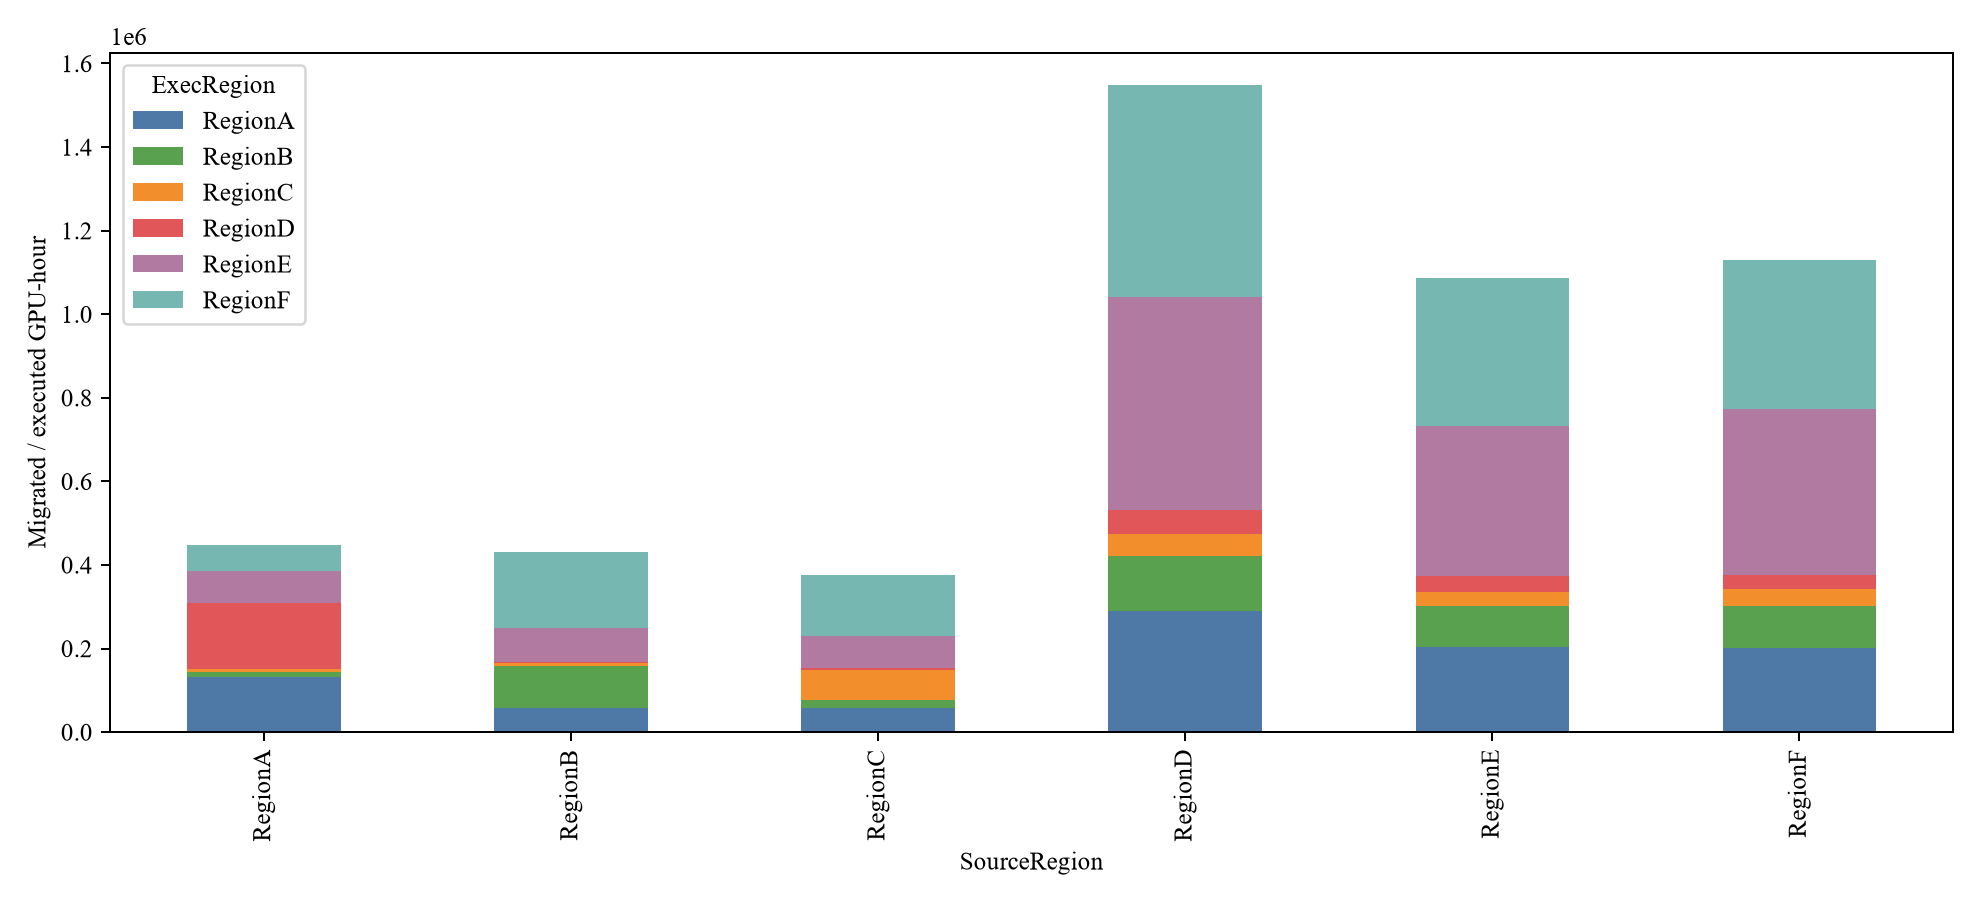
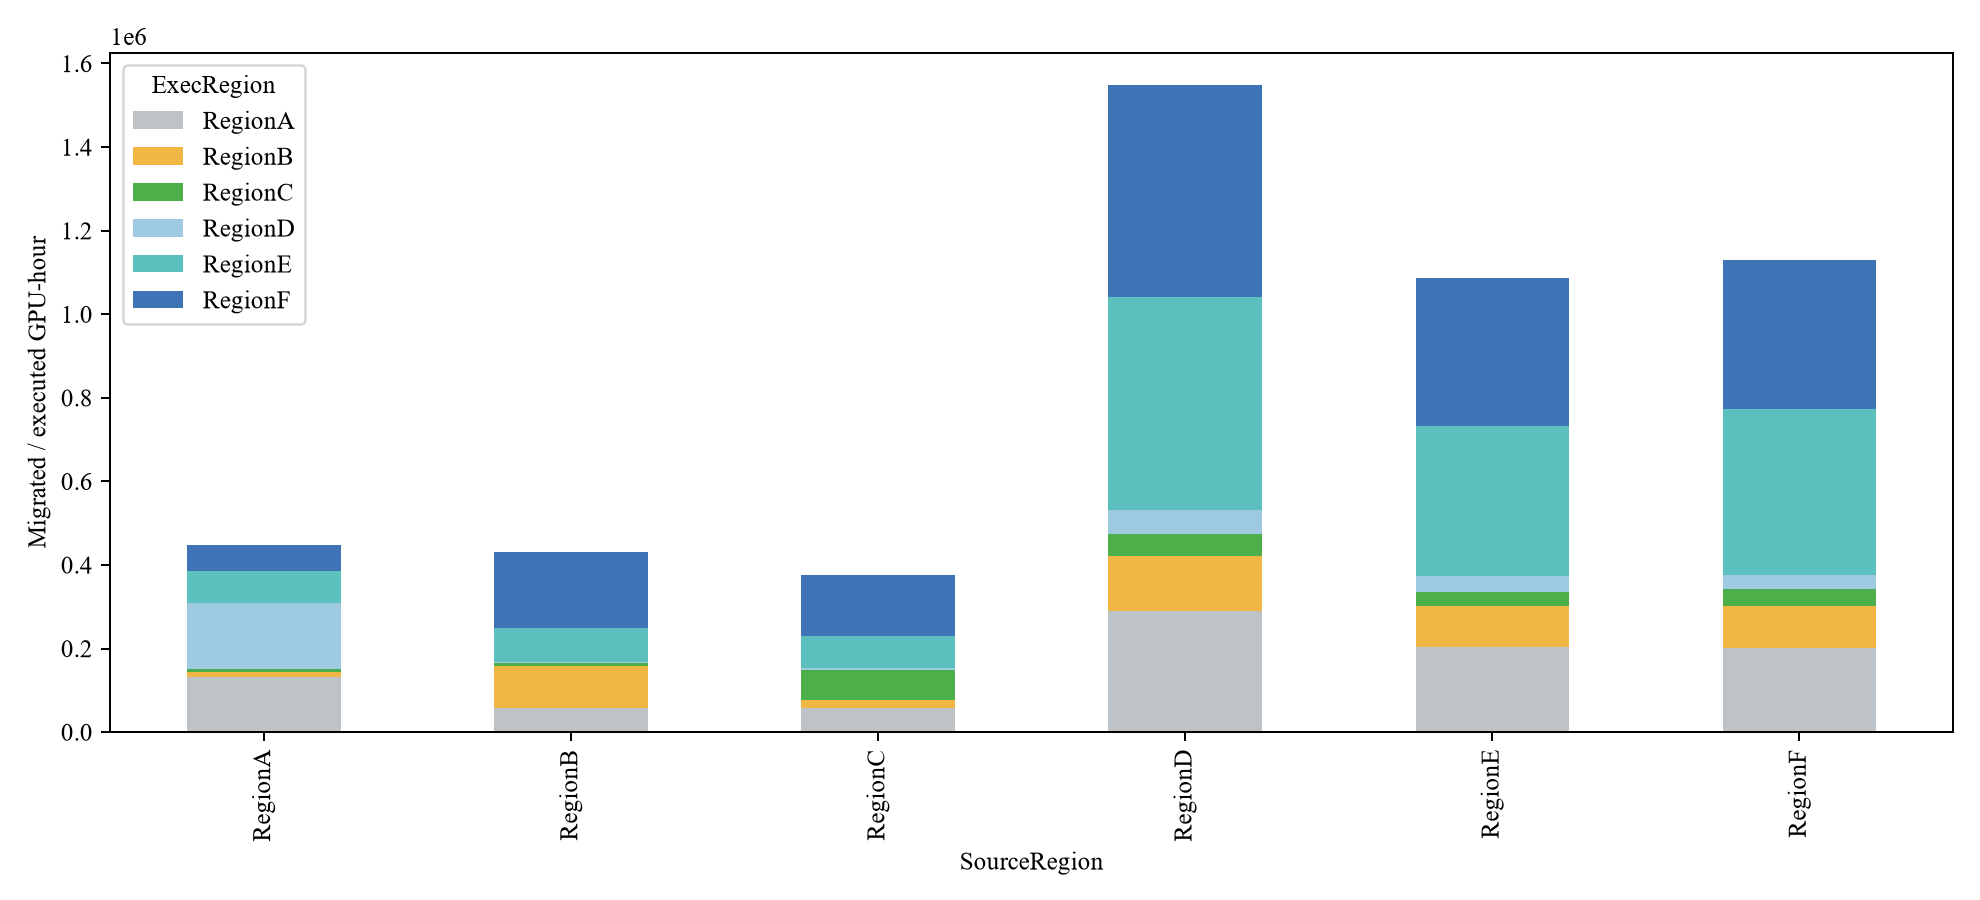
调整问题二迁移流图配色

diff --git a/t2/dataToImg.py b/t2/dataToImg.py
@@ -93,12 +93,12 @@ def make_plots(output_dir: Path) -> None:
         stacked=True,
         figsize=(11, 5),
         color=[
-            "#3E73B5",
-            "#DD6E29",
-            "#4DAF4A",
+            "#BDC3C7",
             "#F1B744",
-            "#9467BD",
+            "#4DAF4A",
+            "#9ECAE1",
             "#5BC0BE",
+            "#3E73B5",
         ][: len(migration.columns)],
     )
     ax.set_ylabel("Migrated / executed GPU-hour")
